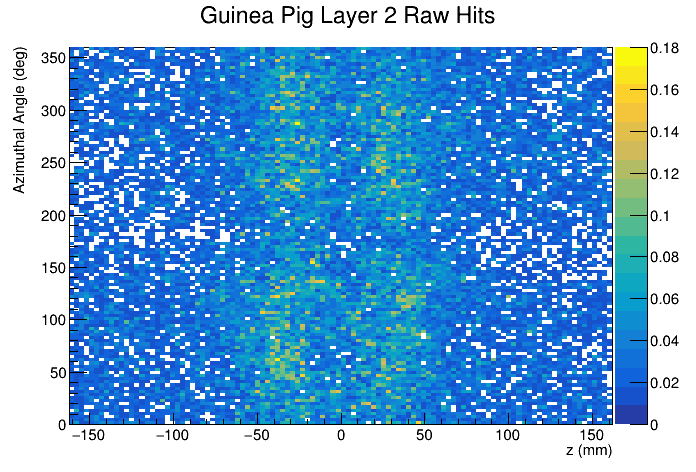
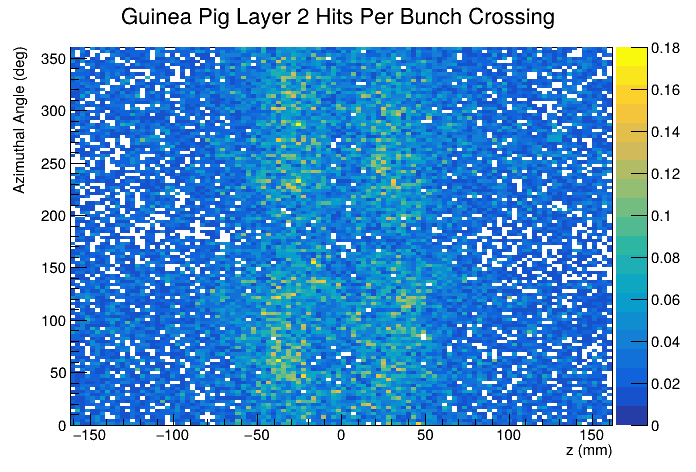
remade raw hit rate plots

diff --git a/python/hit_rate_mapper.py b/python/hit_rate_mapper.py
@@ -107,7 +107,7 @@ for layer_index in range(5):
         area = z_range[1] * r * math.pi/60
         hist = ROOT.TH2F("hit map", f"Guinea Pig Layer {layer_index + 1} Hits", (2 * z_range[0]) // z_range[1], -z_range[0], z_range[0], 120, 0, 360)
         # hist.SetTitle(f"Guinea Pig Layer {layer_index + 1} {particle.capitalize()} Hits Per Area (cm ^-2);z (mm);Azimuthal Angle (deg)")
-        hist.SetTitle(f"Guinea Pig Layer {layer_index + 1} Raw Hits;z (mm); Azimuthal Angle (deg)")
+        hist.SetTitle(f"Guinea Pig Layer {layer_index + 1} Hits Per Bunch Crossing;z (mm); Azimuthal Angle (deg)")
 
         for z in range(-z_range[0], z_range[0], z_range[1]):
             for azimuthal in range(0, 360, 3):
